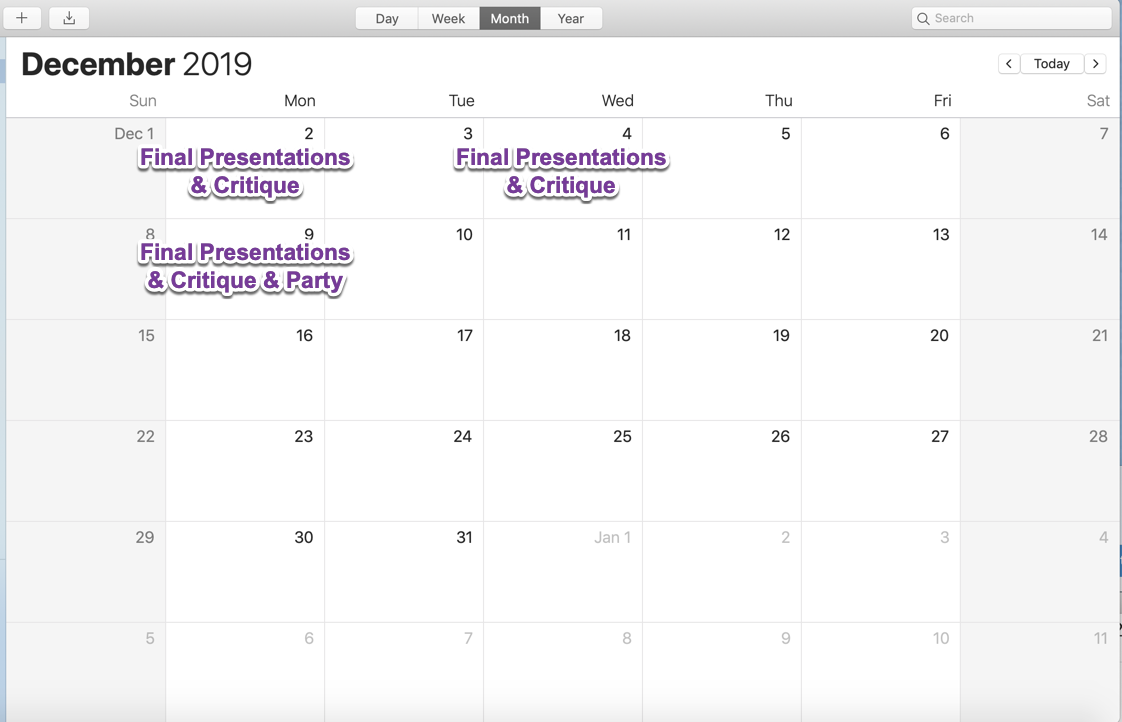
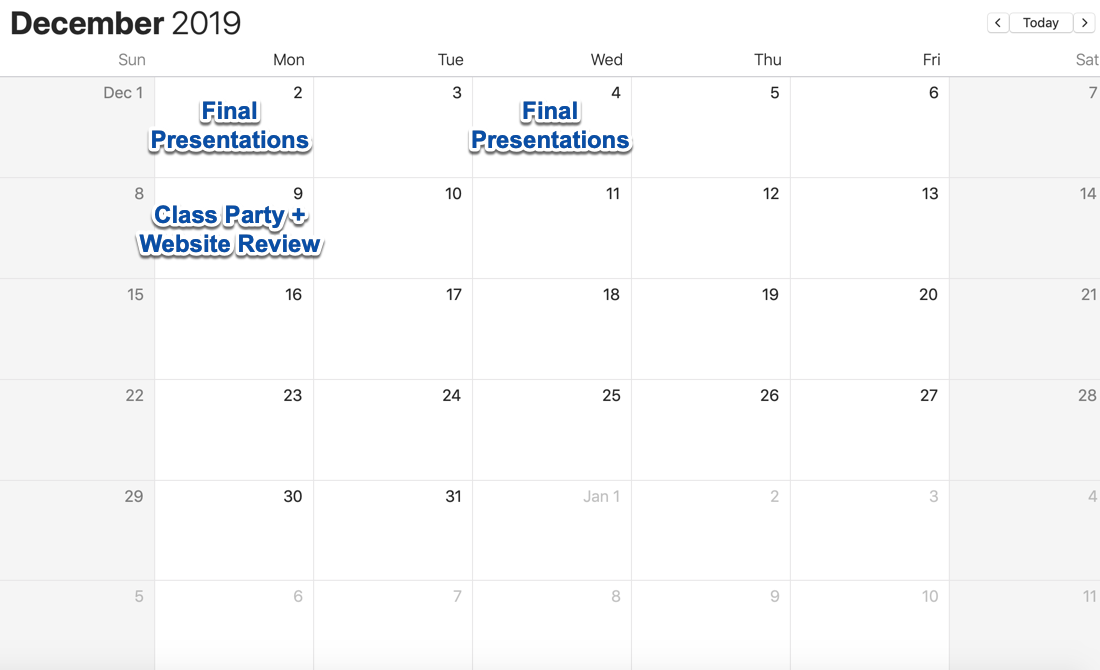
schedule update

diff --git a/schedule/README.md b/schedule/README.md
@@ -5,6 +5,10 @@
 | **Instructor:** Carrie Hott <br> **Office Location:** Art 311 <br> **Office Hours:** Mondays 11:00am-12:00pm, or by appt <br> **Email:** carolyn.hott@sjsu.edu <br> | [Description](https://carriehott.github.io/sjsu-art107/#course-description) <br>  [Schedule](https://carriehott.github.io/sjsu-art107/schedule) <br> [Assignments](https://carriehott.github.io/sjsu-art107/assignments)<br>  [Expectations](https://carriehott.github.io/sjsu-art107/#course-expectations) <br>[Grading](https://carriehott.github.io/sjsu-art107/grading)<br>| [Gallery](https://carriehott.github.io/sjsu-art107/critiques)<br> [Lectures](https://carriehott.github.io/sjsu-art107/lectures)<br> [Readings](https://carriehott.github.io/sjsu-art107/readings) <br> [Tutorials](https://carriehott.github.io/sjsu-art107/tutorials)| [Software](https://carriehott.github.io/sjsu-art107/programs) <br> [Resources](https://carriehott.github.io/sjsu-art107/resources) <br>|
 
 
+![October](october.png)
+![November](november.png)
+![December](december.png)
+
 # Course Schedule
 _Note: This schedule is subject to change. You will be notified of any changes in a timely manner. Check Canvas and this website regularly for updates._
 
@@ -21,26 +25,26 @@ _Note: This schedule is subject to change. You will be notified of any changes i
 5 | Wed 9/18 | Demo/Workshop: Processing & Arduino with sensors| Arduino In-Class Exercise |
 6 | Mon 9/23 | Workshop: How To Represent Current System In The United States <br> | 
 6 | Wed 9/25 | NO CLASS- Field Trip to Yerba Buena Center for the Arts on Saturday 9/28 | 
-7 | Mon 9/30 | **Critique 1- At least one project**<br> Each person presents one finished project (can also present research, prototypes, and in-progress work) | Project 1 of 3 complete
-7 | Wed 10/2 | **Critique 1- At least one project**  | Field Trip Response
-8 | Mon 10/7 | Workshop: PPCs on found objects <br> Lecture: Circuit Bending and Found Objects | In-Class Exercise: PPCs
+7 | Mon 9/30 | Demo/Workshop: Processing & Arduino with sensors | Project 1 of 3 complete
+7 | Wed 10/2 | **Critique 1- At least one project**  | Field Trip Response + Project 1
+8 | Mon 10/7 | **Critique 1- At least one project** | Project 1
 8 | Wed 10/9 | Workshop 2: How To Represent District, Entity, & Relationships Between Them? <br> Assignment: Attend Jonathan Keates State of the Union Address Thursday, October 10 7:00PM in Hammer Theater|
-9 | Mon 10/14 | Web Development Review<br>Professional Practices: Portfolio Sites & Artist Statements  | Lecture Response
-9 | Wed 10/16 | Project Lab- Student Project Development | 2nd project in progress
-10 | Mon 10/21 | **Critique 2- 2nd Project**<br>Each person presents new finished project (can also present research, prototypes, and in-progress work) | Project 2 of 3 complete
-10 | Wed 10/23 | **Critique 2- 2nd Project** |
-11 | Mon 10/28 | Lecture: New Media & Installation Practices <br> In-Class Exercise: Hypothetical Installations | In-Class exercise
-11 | Wed 10/30 | Project Lab- Student Project Development | 3rd project in progress
-12 | Mon 11/4 | Project Lab + Exhibition Planning | Exhibition Plan
-12 | Wed 11/6 | Exhibition Planning + Short critiques | 3rd project progress
+9 | Mon 10/14 | Concept Development & Systems Thinking | In-Class exercise
+9 | Wed 10/16 | Augmented Reality continued- adding object files & making custom markers | In-Class exercise
+10 | Mon 10/21 | Web Development Review<br>Professional Practices: Portfolio Sites & Artist Statements | In-Class exercise
+10 | Wed 10/23 | Lecture: New Media & Installation Practices <br> In-Class Exercise: Hypothetical Installations | In-Class exercise
+11 | Mon 10/28 | Project Lab/Individual Meetings | Project 2 in progress
+11 | Wed 10/30 | Project Lab/Individual Meetings | Project 2 in progress
+12 | Mon 11/4 | Critique 2- Speed Dating | Project 2 + 3rd project progress
+12 | Wed 11/6 | Critique 2- Exhibition Planning | Project 2 + 3rd project progress
 13 | Mon 11/11 | VETERANS DAY- NO CLASS | 
 13 | Wed 11/13 | Visiting Artist: Veronica Graham<br> Artist Talk & Demo- Virtual Reality | 
 14 | Mon 11/18 | Exhibition Installation <br>| Exhibition Project Complete
-14 | Wed 11/20 | Class Exhibition opening & de-install | 
+14 | Wed 11/20 | Class Exhibition opening & program | 
 15 | Mon 11/25 | Documentation, Website, and Final presentation lab | Documentation of projects
 15 | Wed 11/27 | THANKSGIVING- NO CLASS | 
 16 | Mon 12/2 | **Final Presentations & Critique** | Final Presentations
 16 | Wed 12/4 | **Final Presentations & Critique** | 
-17 | Wed 12/9 | **Final Presentations & Critique & Party** | 
-FINAL | Mon 12/16 | | Portfolio Website + Artist Statement Deadline
+17 | Wed 12/9 | **Portfolio Website + Artist Statement Deadline & Party** | 
+FINAL | Mon 12/16 |
 
